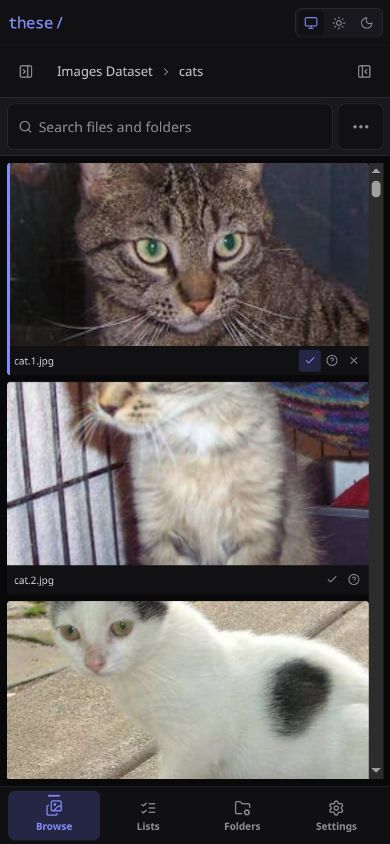
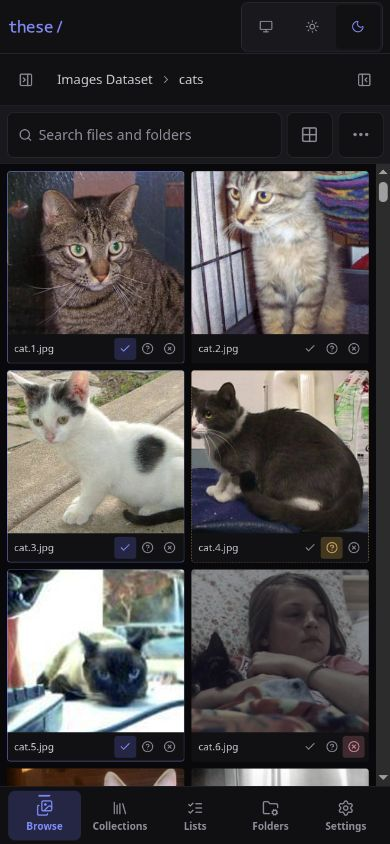
Update README and screenshots for current gallery features

diff --git a/README.md b/README.md
@@ -3,7 +3,7 @@
   <h1><em>these</em></h1>
   <p><strong>Your folders are already the library.</strong></p>
   <p>
-    A self-hosted gallery for browsing image and video folders, building shortlists,<br />
+    A self-hosted gallery for browsing image and video folders, reviewing your choices,<br />
     and downloading the keepers — without importing, moving, or reorganizing a file.
   </p>
   <p>
@@ -32,12 +32,13 @@
 
 ## What is *these*?
 
-*these* is a directory-first media gallery for NAS and homelab collections. Point it at the folders you already have and browse them as they are on disk. The filesystem remains the source of truth; *these* adds only the small amount of state needed to curate it.
+*these* is a directory-first media gallery for NAS and homelab collections. Point it at the folders you already have and browse them as they are on disk. There is no import step: the filesystem remains the source of truth, while *these* stores only the small amount of metadata needed to help you review and organize it.
 
-- **Browse lazily.** Only the folder you open is read; there is no startup scan or import pipeline.
+- **Browse lazily.** Only the folder you open is read, and more media loads automatically as you scroll. There is no startup scan or import pipeline.
 - **Keep originals untouched.** Media mounts can be read-only. Files are never moved, renamed, or stored in SQLite.
-- **Make useful selections.** Sort files into **Selected** and **Maybe**, review them side by side, then stream a ZIP.
-- **Tame large trees.** Give folders aliases, mark favorites, and hide branches without changing anything on disk.
+- **Make clear decisions.** Mark files **Selected**, **Maybe**, or **Discarded**; every decision remains reversible.
+- **Tame large trees.** Give folders aliases, mark favorites, hide branches, and group folders into collections without changing anything on disk.
+- **Use it anywhere.** The responsive interface works on desktop and mobile and can be installed as a PWA.
 - **Stay self-hosted.** One container serves the React app, API, SQLite metadata, thumbnails, and video tooling.
 
 > [!IMPORTANT]
@@ -47,19 +48,19 @@
 
 ### Browse the filesystem, not a catalog
 
-The three-pane browser keeps folders, media, and active lists in one place. Search the open folder by media filename, immediate subfolder name, or folder alias; filter by media type, resize thumbnails, and classify files without leaving the gallery.
+The three-pane browser keeps the folder tree, media gallery, and active list in one place. Switch the tree between **All folders** and any collection, search the open folder by filename, immediate subfolder name, or folder alias, and filter by media type. Thumbnail size, sidebars, and mobile density can all be adjusted without leaving the gallery.
 
 ### Inspect and classify without breaking your flow
 
-Open an image or video in the focused viewer, move through the folder with the arrow keys, and use `1`, `2`, or `0` to update the active list. Technical metadata is fetched only when the details panel is opened.
+Open an image or video in the focused viewer, move through the folder with the arrow keys, and use `1`, `2`, `3`, or `0` to update the active list. Images can be fitted, viewed at actual size, zoomed, and panned. Technical metadata is fetched only when the details panel is opened.
 
-![The focused media viewer with Selected and Maybe controls](docs/assets/screenshots/viewer.jpg)
+![The focused media viewer with Selected, Maybe, and Discarded controls](docs/assets/screenshots/viewer.jpg)
 
 ### Review the keepers
 
-Each list separates confident picks from second-pass candidates. Items can move between groups or be removed inline, and downloads stream directly from the mounted originals.
+Each list separates confident picks, second-pass candidates, and recoverable discards. Items can move between groups or be unclassified inline. The list index can be searched, filtered, and sorted, while ZIP downloads stream directly from the mounted originals.
 
-![A list review with Selected and Maybe groups](docs/assets/screenshots/lists.jpg)
+![A list review with Selected, Maybe, and collapsed Discarded groups](docs/assets/screenshots/lists.jpg)
 
 ## How it works
 
@@ -77,7 +78,7 @@ The server enumerates a directory only when it is opened. Folder children, media
 
 SQLite stores only *these*-owned state:
 
-- lists and each item's **Selected** or **Maybe** status;
+- lists and each item's **Selected**, **Maybe**, or reversible **Discarded** status;
 - named folder collections and their many-to-many memberships;
 - folder aliases, favorites, and hidden flags;
 - configured media roots and the active list.
@@ -97,6 +98,8 @@ docker compose up -d
 
 Open [http://localhost:4000](http://localhost:4000), go to **Settings → Media roots**, and add the container path of each mounted library — for example `/media/photos`.
 
+A **media root** is simply a top-level folder that *these* is allowed to browse. In Docker, always enter the path as it appears **inside the container**, not the original host path.
+
 The included Compose file pulls the public image from GitHub Container Registry. A minimal mount setup looks like this:
 
 ```yaml
@@ -110,6 +113,11 @@ services:
       - /volume1/photos:/media/photos:ro
       - /volume1/videos:/media/videos:ro
 ```
+
+Here `/volume1/photos` is the real host directory and `/media/photos` is its stable path inside the container. Add `/media/photos` in *these* after the service starts; its display label can be anything you like.
+
+> [!TIP]
+> Keep media mounts read-only with `:ro`. Only `/data` needs to be writable.
 
 To update to the latest image:
 
@@ -134,31 +142,33 @@ Service workers require a secure browser context. Plain HTTP works on `localhost
 
 When a new frontend version is deployed, it is downloaded and activated automatically instead of waiting for every open *these* tab or installed window to close. Open browser tabs and installed apps reload automatically once the update is ready.
 
-Here `/volume1/photos` is the real host directory and `/media/photos` is its stable path inside the container. Add `/media/photos` in *these* after the service starts. The display label can be anything you like.
-
-> [!TIP]
-> Keep media mounts read-only with `:ro`. Only `/data` needs to be writable.
-
 ### First-run checklist
 
 1. Mount one or more media directories into the container.
 2. Add their absolute **container paths** in **Settings → Media roots**.
-3. Create a list and make it active.
-4. Browse a folder and mark files **Selected** or **Maybe**.
+3. Create a list and make it active. The active list receives classifications made while browsing.
+4. Browse a folder and mark files **Selected**, **Maybe**, or **Discarded**.
 5. Open the list to review or download the selection as a ZIP.
 
 ## Everyday workflow
 
 ### Lists
 
-A list is one independent selection with two review states:
+A list is one independent review with three states:
 
 - **Selected** is the default download group.
 - **Maybe** keeps uncertain files ready for a second pass.
+- **Discarded** records a negative decision without losing it; the group starts collapsed on the review screen and can be restored at any time.
 
-A media path can have only one state in a list, so moving an item from Maybe to Selected never duplicates it. The same file may belong to several different lists.
+A media path can have only one state in a list, so moving an item between groups never duplicates it. The same file may belong to several different lists, and only the active list changes while you classify media in the browser.
 
-**Download Selected** streams a ZIP directly from mounted files. Maybe and all-item downloads are also available from the list screen and API. If basenames collide, later entries become `name (2).ext`, `name (3).ext`, and so on. Missing files are skipped without deleting their saved references.
+The Lists screen supports name search, **With media**/**Empty** filters, and alphabetical or media-count sorting. **Download Selected** streams a ZIP directly from mounted files; **Maybe** and **All (Selected + Maybe)** downloads are also available. Discarded files are never included automatically. If basenames collide, later entries become `name (2).ext`, `name (3).ext`, and so on. Missing files are skipped without deleting their saved references.
+
+### Browsing and search
+
+The gallery reads media in bounded pages and fetches the next page automatically as you approach the end. Search and image/video filters apply to the open folder only, so even very large directory trees do not need a global index.
+
+On desktop, the folder and list sidebars can be resized or collapsed. On mobile, the same controls move into touch-friendly panels and the gallery offers compact and comfortable densities.
 
 ### Folder metadata
 
@@ -172,9 +182,9 @@ Use inline actions while browsing, or open **Folders** to search and repair meta
 
 ### Folder collections
 
-A collection groups related folders without moving or copying their contents. Open **Collections** to create and manage groups, or use **Add to collections** on the current folder or any child folder while browsing. One folder can belong to several collections.
+A collection groups related folders without moving or copying their contents. Open **Collections** to create and manage groups, or use **Add to collections** on the current folder or any child folder while browsing. One folder can belong to several collections. Collection and list indexes can both be searched, filtered, and sorted.
 
-Opening a collection shows its member folders as shortcuts into the regular browser. Members are sorted by their visible alias or folder name. If an entire media root or an individual folder is temporarily inaccessible, its memberships are retained and marked unavailable. If the root is available but a member folder has been definitively removed—or the stored path is no longer inside any configured root—the stale membership is removed automatically the next time collections are loaded.
+Opening a collection shows its member folders as shortcuts into the regular browser. The folder-tree scope picker also lets you stay inside a collection while moving between its member folders and descendants. Members are sorted by their visible alias or folder name. If an entire media root or an individual folder is temporarily inaccessible, its membership is retained and marked unavailable. If the root is available but a member folder has been definitively removed—or its stored path is no longer inside any configured root—the stale membership is removed automatically the next time collections are loaded.
 
 ### Keyboard shortcuts
 
@@ -186,8 +196,11 @@ Shortcuts apply to the focused thumbnail or the open viewer.
 | `←` / `→` | Previous / next media |
 | `1` | Mark **Selected** in the current list |
 | `2` | Mark **Maybe** in the current list |
+| `3` | Mark **Discarded** in the current list |
 | `0` | Remove from the current list |
 | `I` | Show or hide technical details |
+| `+` / `-` | Zoom an image in or out |
+| `F` / `A` | Fit an image / show it at actual size |
 | `Esc` | Close the viewer or cancel an open text dialog |
 
 ## Configuration
@@ -224,7 +237,7 @@ Files with other extensions are ignored by the gallery.
 Requirements:
 
 - Node.js 22 or newer;
-- pnpm 10;
+- pnpm 11;
 - `ffmpeg` and `ffprobe` on `PATH` for video thumbnails and metadata.
 
 ```sh
@@ -251,7 +264,7 @@ pnpm test
 pnpm build
 ```
 
-Tests cover filesystem containment, symlink escape prevention, folder metadata repair, list state constraints, missing media, filtered pagination, request races, byte ranges, and ZIP filename collisions.
+Tests cover filesystem containment, symlink escape prevention, folder and collection metadata, all three list states, missing media, filtered and automatic pagination, responsive controls, request races, byte ranges, and ZIP filename collisions.
 
 ### Production build
 
@@ -271,10 +284,10 @@ The runtime image contains Node.js, the Fastify server, the compiled React appli
 ## Current limitations
 
 - Single-user; no built-in authentication.
-- No global, recursive, or fuzzy search. Search applies only to the immediate contents of the open folder.
+- No global, recursive, or fuzzy media search. Gallery search applies only to the immediate contents of the open folder.
 - Folder moves are repaired manually rather than detected automatically.
 - Directory symlinks are hidden; direct symlink paths cannot escape a root.
-- The list review screen loads up to 1,000 items. Downloads use a larger bounded set and stream their contents.
+- ZIP downloads are bounded to 100,000 list items per request and can be resource-intensive for very large selections.
 - Mobile uses touch-first navigation and a compact options sheet; the media viewer remains deliberately focused on one item at a time.
 
 ## License
